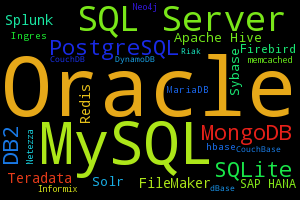
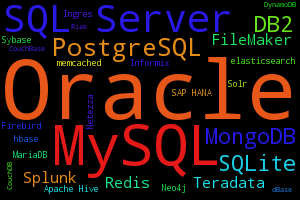
elasticsearch

diff --git a/DB/All.js b/DB/All.js
@@ -1,48 +1,48 @@
     // data
 // begin Top All
 TopPlusMinus = [1,2,9]
-PlusMinus = [-0.0399,0.0237333333333]
+PlusMinus = [-0.04215,0.0234666666667]
 // end Top All
 graphData = [
 ['Date', // begin section languages
-'Oracle', 'MySQL', 'SQL Server', 'PostgreSQL', 'DB2', 'Sybase', 'FileMaker', 'SQLite', 'MongoDB', 'Informix', 'Firebird', 'Teradata', 'dBase', 'Ingres', 'Solr', 'Redis', 'Apache Hive', 'memcached', 'hbase', 'Splunk', 'SAP HANA', 'CouchDB', 'Neo4j', 'CouchBase', 'MariaDB', 'Netezza', 'DynamoDB', 'Riak'
+'Oracle', 'MySQL', 'SQL Server', 'PostgreSQL', 'DB2', 'Sybase', 'FileMaker', 'SQLite', 'MongoDB', 'Informix', 'Firebird', 'Teradata', 'dBase', 'Ingres', 'Solr', 'Redis', 'Apache Hive', 'memcached', 'elasticsearch', 'hbase', 'Splunk', 'SAP HANA', 'CouchDB', 'Neo4j', 'CouchBase', 'MariaDB', 'Netezza', 'DynamoDB', 'Riak'
 // end section languages
 ],
 // begin section All
-[new Date(2004,1,1), 0.392,0.271,0.143,0.037,0.043,0.028,0.024,0.003,0.0,0.012,0.032,0.003,0.007,0.004,0.0,0.0,0.0,0.0,0.0,0.0,0.0,0.0,0.0,0.0,0.0,0.0,0.0,0.0],
-[new Date(2004,5,1), 0.391,0.275,0.148,0.035,0.045,0.028,0.024,0.004,0.0,0.013,0.023,0.003,0.007,0.004,0.0,0.0,0.0,0.0,0.0,0.0,0.0,0.0,0.0,0.0,0.0,0.0,0.0,0.0],
-[new Date(2004,9,1), 0.395,0.278,0.152,0.034,0.045,0.028,0.023,0.004,0.0,0.013,0.016,0.003,0.006,0.004,0.0,0.0,0.0,0.0,0.0,0.0,0.0,0.0,0.0,0.0,0.0,0.0,0.0,0.0],
-[new Date(2005,1,1), 0.395,0.285,0.151,0.033,0.044,0.027,0.021,0.005,0.0,0.012,0.015,0.003,0.005,0.004,0.0,0.0,0.0,0.0,0.0,0.0,0.0,0.0,0.0,0.0,0.0,0.0,0.0,0.0],
-[new Date(2005,5,1), 0.388,0.294,0.155,0.032,0.042,0.025,0.021,0.006,0.0,0.011,0.014,0.003,0.005,0.004,0.0,0.0,0.001,0.0,0.0,0.0,0.0,0.0,0.0,0.0,0.0,0.0,0.0,0.0],
-[new Date(2005,9,1), 0.391,0.29,0.16,0.032,0.042,0.025,0.02,0.006,0.0,0.011,0.012,0.003,0.004,0.003,0.0,0.0,0.001,0.0,0.0,0.0,0.0,0.0,0.0,0.0,0.0,0.0,0.0,0.0],
-[new Date(2006,1,1), 0.387,0.296,0.161,0.032,0.039,0.023,0.021,0.007,0.0,0.009,0.012,0.003,0.004,0.004,0.0,0.0,0.001,0.0,0.0,0.0,0.0,0.0,0.0,0.0,0.0,0.0,0.0,0.0],
-[new Date(2006,5,1), 0.384,0.297,0.168,0.029,0.038,0.022,0.019,0.008,0.0,0.009,0.012,0.003,0.004,0.005,0.0,0.001,0.001,0.001,0.0,0.001,0.0,0.0,0.0,0.0,0.0,0.0,0.0,0.0],
-[new Date(2006,9,1), 0.387,0.292,0.172,0.027,0.039,0.022,0.019,0.008,0.0,0.008,0.011,0.003,0.004,0.004,0.0,0.0,0.001,0.001,0.0,0.001,0.0,0.0,0.0,0.0,0.0,0.0,0.0,0.0],
-[new Date(2007,1,1), 0.389,0.296,0.17,0.026,0.038,0.021,0.019,0.009,0.0,0.008,0.012,0.003,0.003,0.004,0.0,0.001,0.001,0.001,0.0,0.001,0.0,0.0,0.0,0.0,0.0,0.0,0.0,0.0],
-[new Date(2007,5,1), 0.391,0.297,0.171,0.025,0.036,0.02,0.017,0.009,0.0,0.007,0.011,0.004,0.003,0.004,0.001,0.001,0.001,0.001,0.0,0.001,0.0,0.0,0.0,0.0,0.0,0.0,0.0,0.0],
-[new Date(2007,9,1), 0.394,0.289,0.176,0.025,0.037,0.02,0.016,0.009,0.0,0.007,0.011,0.004,0.003,0.003,0.001,0.001,0.001,0.001,0.0,0.001,0.0,0.0,0.0,0.0,0.0,0.0,0.0,0.0],
-[new Date(2008,1,1), 0.391,0.286,0.177,0.027,0.036,0.019,0.018,0.01,0.0,0.008,0.011,0.004,0.003,0.003,0.001,0.001,0.001,0.001,0.0,0.001,0.0,0.0,0.0,0.0,0.0,0.001,0.0,0.0],
-[new Date(2008,5,1), 0.392,0.281,0.181,0.028,0.035,0.018,0.017,0.011,0.0,0.009,0.01,0.005,0.003,0.003,0.001,0.001,0.001,0.002,0.001,0.001,0.0,0.0,0.0,0.0,0.0,0.001,0.0,0.0],
-[new Date(2008,9,1), 0.398,0.272,0.187,0.026,0.036,0.018,0.015,0.012,0.0,0.008,0.01,0.005,0.002,0.003,0.002,0.001,0.001,0.002,0.001,0.001,0.0,0.001,0.0,0.0,0.0,0.001,0.0,0.0],
-[new Date(2009,1,1), 0.395,0.273,0.188,0.024,0.035,0.017,0.016,0.013,0.0,0.008,0.01,0.005,0.002,0.003,0.002,0.001,0.001,0.002,0.001,0.001,0.0,0.001,0.0,0.0,0.0,0.001,0.0,0.0],
-[new Date(2009,5,1), 0.389,0.277,0.19,0.023,0.034,0.016,0.017,0.014,0.0,0.006,0.011,0.005,0.002,0.003,0.003,0.001,0.001,0.002,0.001,0.001,0.0,0.001,0.0,0.0,0.0,0.001,0.0,0.0],
-[new Date(2009,9,1), 0.396,0.273,0.192,0.023,0.034,0.015,0.015,0.014,0.0,0.005,0.01,0.005,0.002,0.003,0.003,0.001,0.001,0.002,0.001,0.002,0.0,0.002,0.0,0.0,0.0,0.001,0.0,0.0],
-[new Date(2010,1,1), 0.393,0.272,0.195,0.023,0.032,0.015,0.014,0.015,0.001,0.005,0.01,0.005,0.002,0.003,0.003,0.001,0.001,0.003,0.001,0.002,0.0,0.002,0.0,0.0,0.0,0.001,0.0,0.0],
-[new Date(2010,5,1), 0.39,0.268,0.197,0.023,0.031,0.015,0.015,0.016,0.002,0.005,0.009,0.006,0.002,0.003,0.004,0.002,0.002,0.003,0.001,0.002,0.0,0.002,0.0,0.0,0.0,0.001,0.0,0.0],
-[new Date(2010,9,1), 0.395,0.258,0.197,0.023,0.032,0.016,0.015,0.016,0.004,0.005,0.009,0.006,0.002,0.003,0.004,0.002,0.002,0.003,0.001,0.002,0.0,0.002,0.0,0.0,0.0,0.001,0.0,0.001],
-[new Date(2011,1,1), 0.397,0.26,0.191,0.023,0.03,0.014,0.015,0.018,0.005,0.005,0.009,0.007,0.002,0.003,0.005,0.003,0.002,0.003,0.002,0.002,0.0,0.002,0.0,0.0,0.001,0.002,0.0,0.001],
-[new Date(2011,5,1), 0.393,0.266,0.188,0.022,0.029,0.014,0.015,0.019,0.006,0.004,0.009,0.007,0.002,0.003,0.005,0.003,0.002,0.003,0.002,0.003,0.0,0.002,0.001,0.0,0.0,0.001,0.0,0.001],
-[new Date(2011,9,1), 0.395,0.259,0.19,0.022,0.028,0.014,0.014,0.02,0.008,0.004,0.008,0.007,0.002,0.003,0.006,0.004,0.002,0.003,0.002,0.003,0.001,0.002,0.001,0.0,0.0,0.002,0.0,0.001],
-[new Date(2012,1,1), 0.392,0.255,0.189,0.023,0.027,0.013,0.014,0.021,0.009,0.004,0.008,0.007,0.002,0.003,0.006,0.005,0.003,0.003,0.002,0.004,0.002,0.002,0.001,0.0,0.001,0.002,0.0,0.001],
-[new Date(2012,5,1), 0.385,0.252,0.189,0.024,0.027,0.012,0.015,0.023,0.011,0.004,0.008,0.008,0.002,0.003,0.007,0.006,0.003,0.004,0.003,0.005,0.002,0.002,0.001,0.001,0.001,0.002,0.001,0.001],
-[new Date(2012,9,1), 0.386,0.244,0.191,0.025,0.027,0.012,0.015,0.022,0.013,0.004,0.008,0.009,0.001,0.003,0.007,0.006,0.003,0.004,0.003,0.006,0.003,0.002,0.001,0.001,0.001,0.002,0.001,0.001],
-[new Date(2013,1,1), 0.388,0.242,0.19,0.026,0.026,0.011,0.014,0.023,0.014,0.004,0.008,0.009,0.001,0.003,0.007,0.006,0.004,0.003,0.003,0.006,0.003,0.002,0.001,0.001,0.001,0.002,0.001,0.001],
-[new Date(2013,5,1), 0.382,0.243,0.189,0.027,0.025,0.011,0.014,0.023,0.016,0.003,0.007,0.009,0.001,0.003,0.007,0.007,0.004,0.003,0.003,0.006,0.004,0.002,0.002,0.001,0.002,0.002,0.001,0.001],
-[new Date(2013,9,1), 0.379,0.24,0.189,0.027,0.025,0.01,0.013,0.023,0.018,0.003,0.007,0.009,0.001,0.003,0.008,0.008,0.005,0.004,0.003,0.008,0.005,0.002,0.002,0.001,0.003,0.002,0.001,0.001],
-[new Date(2014,1,1), 0.378,0.238,0.186,0.028,0.024,0.01,0.014,0.023,0.02,0.003,0.007,0.009,0.001,0.003,0.008,0.009,0.006,0.003,0.003,0.008,0.005,0.002,0.002,0.001,0.003,0.002,0.001,0.001],
-[new Date(2014,5,1), 0.37,0.241,0.186,0.028,0.023,0.009,0.014,0.024,0.023,0.003,0.007,0.009,0.001,0.003,0.008,0.01,0.007,0.003,0.004,0.009,0.005,0.002,0.002,0.002,0.003,0.002,0.001,0.002],
-[new Date(2014,9,1), 0.371,0.233,0.189,0.029,0.024,0.009,0.012,0.023,0.024,0.003,0.007,0.01,0.001,0.003,0.008,0.01,0.008,0.003,0.004,0.01,0.006,0.002,0.002,0.002,0.004,0.002,0.001,0.002],
-[new Date(2015,1,1), 0.372,0.233,0.185,0.029,0.023,0.008,0.012,0.023,0.025,0.003,0.007,0.01,0.001,0.003,0.008,0.011,0.01,0.003,0.003,0.01,0.006,0.002,0.002,0.002,0.004,0.002,0.001,0.002]
+[new Date(2004,1,1), 0.392,0.271,0.143,0.037,0.043,0.028,0.024,0.003,0.0,0.012,0.032,0.003,0.007,0.004,0.0,0.0,0.0,0.0,0.0,0.0,0.0,0.0,0.0,0.0,0.0,0.0,0.0,0.0,0.0],
+[new Date(2004,5,1), 0.391,0.275,0.148,0.035,0.045,0.028,0.024,0.004,0.0,0.013,0.023,0.003,0.007,0.004,0.0,0.0,0.0,0.0,0.0,0.0,0.0,0.0,0.0,0.0,0.0,0.0,0.0,0.0,0.0],
+[new Date(2004,9,1), 0.395,0.278,0.152,0.034,0.045,0.028,0.023,0.004,0.0,0.013,0.016,0.003,0.006,0.004,0.0,0.0,0.0,0.0,0.0,0.0,0.0,0.0,0.0,0.0,0.0,0.0,0.0,0.0,0.0],
+[new Date(2005,1,1), 0.395,0.285,0.151,0.033,0.044,0.027,0.021,0.005,0.0,0.012,0.015,0.003,0.005,0.004,0.0,0.0,0.0,0.0,0.0,0.0,0.0,0.0,0.0,0.0,0.0,0.0,0.0,0.0,0.0],
+[new Date(2005,5,1), 0.388,0.294,0.155,0.032,0.042,0.025,0.021,0.006,0.0,0.011,0.014,0.003,0.005,0.004,0.0,0.0,0.001,0.0,0.0,0.0,0.0,0.0,0.0,0.0,0.0,0.0,0.0,0.0,0.0],
+[new Date(2005,9,1), 0.391,0.29,0.16,0.032,0.042,0.025,0.02,0.006,0.0,0.011,0.012,0.003,0.004,0.003,0.0,0.0,0.001,0.0,0.0,0.0,0.0,0.0,0.0,0.0,0.0,0.0,0.0,0.0,0.0],
+[new Date(2006,1,1), 0.387,0.296,0.161,0.032,0.039,0.023,0.021,0.007,0.0,0.009,0.012,0.003,0.004,0.004,0.0,0.0,0.001,0.0,0.0,0.0,0.0,0.0,0.0,0.0,0.0,0.0,0.0,0.0,0.0],
+[new Date(2006,5,1), 0.384,0.297,0.168,0.029,0.038,0.022,0.019,0.008,0.0,0.009,0.012,0.003,0.004,0.005,0.0,0.001,0.001,0.001,0.0,0.0,0.001,0.0,0.0,0.0,0.0,0.0,0.0,0.0,0.0],
+[new Date(2006,9,1), 0.387,0.292,0.172,0.027,0.039,0.022,0.019,0.008,0.0,0.008,0.011,0.003,0.004,0.004,0.0,0.0,0.001,0.001,0.0,0.0,0.001,0.0,0.0,0.0,0.0,0.0,0.0,0.0,0.0],
+[new Date(2007,1,1), 0.389,0.296,0.17,0.026,0.038,0.021,0.019,0.009,0.0,0.008,0.012,0.003,0.003,0.004,0.0,0.001,0.001,0.001,0.0,0.0,0.001,0.0,0.0,0.0,0.0,0.0,0.0,0.0,0.0],
+[new Date(2007,5,1), 0.391,0.297,0.171,0.025,0.036,0.02,0.017,0.009,0.0,0.007,0.011,0.004,0.003,0.004,0.001,0.001,0.001,0.001,0.0,0.0,0.001,0.0,0.0,0.0,0.0,0.0,0.0,0.0,0.0],
+[new Date(2007,9,1), 0.394,0.289,0.176,0.025,0.037,0.02,0.016,0.009,0.0,0.007,0.011,0.004,0.003,0.003,0.001,0.001,0.001,0.001,0.0,0.0,0.001,0.0,0.0,0.0,0.0,0.0,0.0,0.0,0.0],
+[new Date(2008,1,1), 0.391,0.286,0.177,0.027,0.036,0.019,0.018,0.01,0.0,0.008,0.011,0.004,0.003,0.003,0.001,0.001,0.001,0.001,0.0,0.0,0.001,0.0,0.0,0.0,0.0,0.0,0.001,0.0,0.0],
+[new Date(2008,5,1), 0.392,0.281,0.181,0.028,0.035,0.018,0.017,0.011,0.0,0.009,0.01,0.005,0.003,0.003,0.001,0.001,0.001,0.002,0.0,0.001,0.001,0.0,0.0,0.0,0.0,0.0,0.001,0.0,0.0],
+[new Date(2008,9,1), 0.398,0.272,0.187,0.026,0.036,0.018,0.015,0.012,0.0,0.008,0.01,0.005,0.002,0.003,0.002,0.001,0.001,0.002,0.0,0.001,0.001,0.0,0.001,0.0,0.0,0.0,0.001,0.0,0.0],
+[new Date(2009,1,1), 0.395,0.273,0.188,0.024,0.035,0.017,0.016,0.013,0.0,0.008,0.01,0.005,0.002,0.003,0.002,0.001,0.001,0.002,0.0,0.001,0.001,0.0,0.001,0.0,0.0,0.0,0.001,0.0,0.0],
+[new Date(2009,5,1), 0.389,0.277,0.19,0.023,0.034,0.016,0.017,0.014,0.0,0.006,0.011,0.005,0.002,0.003,0.003,0.001,0.001,0.002,0.0,0.001,0.001,0.0,0.001,0.0,0.0,0.0,0.001,0.0,0.0],
+[new Date(2009,9,1), 0.396,0.273,0.192,0.023,0.034,0.015,0.015,0.014,0.0,0.005,0.01,0.005,0.002,0.003,0.003,0.001,0.001,0.002,0.0,0.001,0.002,0.0,0.002,0.0,0.0,0.0,0.001,0.0,0.0],
+[new Date(2010,1,1), 0.393,0.272,0.195,0.023,0.032,0.015,0.014,0.015,0.001,0.005,0.01,0.005,0.002,0.003,0.003,0.001,0.001,0.003,0.0,0.001,0.002,0.0,0.002,0.0,0.0,0.0,0.001,0.0,0.0],
+[new Date(2010,5,1), 0.39,0.268,0.197,0.023,0.031,0.015,0.015,0.016,0.002,0.005,0.009,0.006,0.002,0.003,0.004,0.002,0.002,0.003,0.0,0.001,0.002,0.0,0.002,0.0,0.0,0.0,0.001,0.0,0.0],
+[new Date(2010,9,1), 0.395,0.258,0.197,0.023,0.032,0.016,0.015,0.016,0.004,0.005,0.009,0.006,0.002,0.003,0.004,0.002,0.002,0.003,0.0,0.001,0.002,0.0,0.002,0.0,0.0,0.0,0.001,0.0,0.001],
+[new Date(2011,1,1), 0.397,0.26,0.191,0.023,0.03,0.014,0.015,0.018,0.005,0.005,0.009,0.007,0.002,0.003,0.005,0.003,0.002,0.003,0.0,0.002,0.002,0.0,0.002,0.0,0.0,0.001,0.002,0.0,0.001],
+[new Date(2011,5,1), 0.393,0.266,0.188,0.022,0.029,0.014,0.015,0.019,0.006,0.004,0.009,0.007,0.002,0.003,0.005,0.003,0.002,0.003,0.0,0.002,0.003,0.0,0.002,0.001,0.0,0.0,0.001,0.0,0.001],
+[new Date(2011,9,1), 0.395,0.259,0.189,0.022,0.028,0.014,0.014,0.02,0.008,0.004,0.008,0.007,0.002,0.003,0.006,0.004,0.002,0.003,0.0,0.002,0.003,0.001,0.002,0.001,0.0,0.0,0.002,0.0,0.001],
+[new Date(2012,1,1), 0.392,0.255,0.189,0.023,0.027,0.013,0.014,0.021,0.009,0.004,0.008,0.007,0.002,0.003,0.006,0.005,0.003,0.003,0.001,0.002,0.004,0.002,0.002,0.001,0.0,0.001,0.002,0.0,0.001],
+[new Date(2012,5,1), 0.384,0.252,0.189,0.024,0.027,0.012,0.015,0.023,0.011,0.004,0.008,0.008,0.002,0.003,0.007,0.006,0.003,0.003,0.001,0.003,0.005,0.002,0.002,0.001,0.001,0.001,0.002,0.001,0.001],
+[new Date(2012,9,1), 0.386,0.244,0.191,0.025,0.027,0.012,0.015,0.022,0.013,0.004,0.008,0.009,0.001,0.003,0.007,0.006,0.003,0.004,0.001,0.003,0.006,0.003,0.002,0.001,0.001,0.001,0.002,0.001,0.001],
+[new Date(2013,1,1), 0.388,0.241,0.19,0.026,0.026,0.011,0.014,0.023,0.014,0.004,0.008,0.009,0.001,0.003,0.007,0.006,0.004,0.003,0.002,0.003,0.006,0.003,0.002,0.001,0.001,0.001,0.002,0.001,0.001],
+[new Date(2013,5,1), 0.381,0.242,0.188,0.027,0.025,0.011,0.014,0.023,0.016,0.003,0.007,0.009,0.001,0.003,0.007,0.007,0.004,0.003,0.002,0.003,0.006,0.004,0.002,0.002,0.001,0.002,0.002,0.001,0.001],
+[new Date(2013,9,1), 0.378,0.239,0.188,0.027,0.025,0.01,0.013,0.023,0.018,0.003,0.007,0.009,0.001,0.003,0.008,0.008,0.005,0.003,0.004,0.003,0.008,0.005,0.002,0.002,0.001,0.003,0.002,0.001,0.001],
+[new Date(2014,1,1), 0.376,0.237,0.185,0.028,0.024,0.01,0.014,0.023,0.02,0.003,0.007,0.009,0.001,0.003,0.008,0.009,0.006,0.003,0.005,0.003,0.008,0.005,0.002,0.002,0.001,0.003,0.002,0.001,0.001],
+[new Date(2014,5,1), 0.368,0.239,0.184,0.028,0.023,0.009,0.014,0.024,0.022,0.003,0.007,0.009,0.001,0.003,0.008,0.01,0.007,0.003,0.007,0.004,0.009,0.005,0.002,0.002,0.002,0.003,0.002,0.001,0.002],
+[new Date(2014,9,1), 0.368,0.231,0.187,0.029,0.024,0.009,0.012,0.023,0.024,0.003,0.007,0.01,0.001,0.003,0.008,0.01,0.008,0.003,0.008,0.003,0.01,0.006,0.002,0.002,0.002,0.004,0.002,0.001,0.002],
+[new Date(2015,1,1), 0.369,0.23,0.183,0.029,0.023,0.008,0.012,0.023,0.024,0.003,0.007,0.01,0.001,0.003,0.008,0.011,0.01,0.003,0.01,0.003,0.01,0.006,0.002,0.002,0.002,0.004,0.002,0.001,0.002]
 // end section All
         ];
 

diff --git a/DB.html b/DB.html
@@ -134,34 +134,35 @@ country["FR"]="France"
 function refreshTop() {        
 cloud = "All.png"
 table = "<!-- begin section All-->\
-<td class=center>1</td><td class=center></td><td>Oracle</td><td class=right>37.25 %</td><td class=\"right optCol\">-0.2 %</td></tr>\
-<tr><td class=center>2</td><td class=center></td><td>MySQL</td><td class=right>23.25 %</td><td class=\"right optCol\">-1.3 %</td></tr>\
-<tr><td class=center>3</td><td class=center></td><td>SQL Server</td><td class=right>18.53 %</td><td class=\"right optCol\">+0.2 %</td></tr>\
-<tr><td class=center>4</td><td class=center></td><td>PostgreSQL</td><td class=right>2.93 %</td><td class=\"right optCol\">+0.2 %</td></tr>\
-<tr><td class=center>5</td><td class=center><image src=Up.png><image src=Up.png></td><td>MongoDB</td><td class=right>2.47 %</td><td class=\"right optCol\">+0.4 %</td></tr>\
-<tr><td class=center>6</td><td class=center></td><td>SQLite</td><td class=right>2.29 %</td><td class=\"right optCol\">-0.1 %</td></tr>\
-<tr><td class=center>7</td><td class=center><image src=Down.png><image src=Down.png></td><td>DB2</td><td class=right>2.29 %</td><td class=\"right optCol\">-0.0 %</td></tr>\
-<tr><td class=center>8</td><td class=center></td><td>FileMaker</td><td class=right>1.18 %</td><td class=\"right optCol\">-0.4 %</td></tr>\
-<tr><td class=center>9</td><td class=center><image src=Up.png><image src=Up.png></td><td>Redis</td><td class=right>1.08 %</td><td class=\"right optCol\">+0.2 %</td></tr>\
-<tr><td class=center>10</td><td class=center><image src=Up.png><image src=Up.png></td><td>Splunk</td><td class=right>1.03 %</td><td class=\"right optCol\">+0.3 %</td></tr>\
-<tr><td class=center>11</td><td class=center><image src=Down.png></td><td>Teradata</td><td class=right>1.03 %</td><td class=\"right optCol\">+0.2 %</td></tr>\
-<tr><td class=center>12</td><td class=center><image src=Up.png><image src=Up.png><image src=Up.png></td><td>Apache Hive</td><td class=right>0.97 %</td><td class=\"right optCol\">+0.3 %</td></tr>\
-<tr><td class=center>13</td><td class=center><image src=Down.png><image src=Down.png><image src=Down.png><image src=Down.png></td><td>Sybase</td><td class=right>0.84 %</td><td class=\"right optCol\">-0.1 %</td></tr>\
-<tr><td class=center>14</td><td class=center><image src=Down.png></td><td>Solr</td><td class=right>0.77 %</td><td class=\"right optCol\">-0.0 %</td></tr>\
-<tr><td class=center>15</td><td class=center><image src=Down.png></td><td>Firebird</td><td class=right>0.68 %</td><td class=\"right optCol\">-0.0 %</td></tr>\
-<tr><td class=center>16</td><td class=center></td><td>SAP HANA</td><td class=right>0.61 %</td><td class=\"right optCol\">+0.2 %</td></tr>\
-<tr><td class=center>17</td><td class=center><image src=Up.png><image src=Up.png></td><td>MariaDB</td><td class=right>0.41 %</td><td class=\"right optCol\">+0.1 %</td></tr>\
-<tr><td class=center>18</td><td class=center></td><td>hbase</td><td class=right>0.34 %</td><td class=\"right optCol\">-0.0 %</td></tr>\
-<tr><td class=center>19</td><td class=center><image src=Up.png></td><td>Ingres</td><td class=right>0.32 %</td><td class=\"right optCol\">-0.0 %</td></tr>\
-<tr><td class=center>20</td><td class=center><image src=Down.png><image src=Down.png><image src=Down.png></td><td>memcached</td><td class=right>0.3 %</td><td class=\"right optCol\">-0.1 %</td></tr>\
-<tr><td class=center>21</td><td class=center></td><td>Informix</td><td class=right>0.28 %</td><td class=\"right optCol\">-0.0 %</td></tr>\
-<tr><td class=center>22</td><td class=center></td><td>Neo4j</td><td class=right>0.23 %</td><td class=\"right optCol\">-0.0 %</td></tr>\
-<tr><td class=center>23</td><td class=center><image src=Up.png></td><td>Netezza</td><td class=right>0.19 %</td><td class=\"right optCol\">-0.0 %</td></tr>\
-<tr><td class=center>24</td><td class=center><image src=Up.png><image src=Up.png></td><td>CouchBase</td><td class=right>0.17 %</td><td class=\"right optCol\">-0.0 %</td></tr>\
-<tr><td class=center>25</td><td class=center><image src=Down.png><image src=Down.png></td><td>CouchDB</td><td class=right>0.17 %</td><td class=\"right optCol\">-0.0 %</td></tr>\
-<tr><td class=center>26</td><td class=center><image src=Down.png></td><td>Riak</td><td class=right>0.15 %</td><td class=\"right optCol\">-0.0 %</td></tr>\
-<tr><td class=center>27</td><td class=center><image src=Up.png></td><td>DynamoDB</td><td class=right>0.13 %</td><td class=\"right optCol\">-0.0 %</td></tr>\
-<tr><td class=center>28</td><td class=center><image src=Down.png></td><td>dBase</td><td class=right>0.11 %</td><td class=\"right optCol\">-0.0 %</td>\
+<td class=center>1</td><td class=center></td><td>Oracle</td><td class=right>36.89 %</td><td class=\"right optCol\">-0.4 %</td></tr>\
+<tr><td class=center>2</td><td class=center></td><td>MySQL</td><td class=right>23.03 %</td><td class=\"right optCol\">-1.4 %</td></tr>\
+<tr><td class=center>3</td><td class=center></td><td>SQL Server</td><td class=right>18.35 %</td><td class=\"right optCol\">+0.1 %</td></tr>\
+<tr><td class=center>4</td><td class=center></td><td>PostgreSQL</td><td class=right>2.9 %</td><td class=\"right optCol\">+0.2 %</td></tr>\
+<tr><td class=center>5</td><td class=center><image src=Up.png><image src=Up.png></td><td>MongoDB</td><td class=right>2.45 %</td><td class=\"right optCol\">+0.4 %</td></tr>\
+<tr><td class=center>6</td><td class=center></td><td>SQLite</td><td class=right>2.27 %</td><td class=\"right optCol\">-0.1 %</td></tr>\
+<tr><td class=center>7</td><td class=center><image src=Down.png><image src=Down.png></td><td>DB2</td><td class=right>2.27 %</td><td class=\"right optCol\">-0.0 %</td></tr>\
+<tr><td class=center>8</td><td class=center></td><td>FileMaker</td><td class=right>1.16 %</td><td class=\"right optCol\">-0.4 %</td></tr>\
+<tr><td class=center>9</td><td class=center><image src=Up.png><image src=Up.png></td><td>Redis</td><td class=right>1.07 %</td><td class=\"right optCol\">+0.2 %</td></tr>\
+<tr><td class=center>10</td><td class=center></td><td>Teradata</td><td class=right>1.02 %</td><td class=\"right optCol\">+0.2 %</td></tr>\
+<tr><td class=center>11</td><td class=center><image src=Up.png></td><td>Splunk</td><td class=right>1.02 %</td><td class=\"right optCol\">+0.2 %</td></tr>\
+<tr><td class=center>12</td><td class=center><image src=Up.png><image src=Up.png><image src=Up.png><image src=Up.png><image src=Up.png></td><td>elasticsearch</td><td class=right>0.96 %</td><td class=\"right optCol\">+0.5 %</td></tr>\
+<tr><td class=center>13</td><td class=center><image src=Up.png><image src=Up.png></td><td>Apache Hive</td><td class=right>0.96 %</td><td class=\"right optCol\">+0.3 %</td></tr>\
+<tr><td class=center>14</td><td class=center><image src=Down.png><image src=Down.png><image src=Down.png><image src=Down.png><image src=Down.png></td><td>Sybase</td><td class=right>0.83 %</td><td class=\"right optCol\">-0.1 %</td></tr>\
+<tr><td class=center>15</td><td class=center><image src=Down.png><image src=Down.png></td><td>Solr</td><td class=right>0.76 %</td><td class=\"right optCol\">-0.0 %</td></tr>\
+<tr><td class=center>16</td><td class=center><image src=Down.png><image src=Down.png></td><td>Firebird</td><td class=right>0.68 %</td><td class=\"right optCol\">-0.0 %</td></tr>\
+<tr><td class=center>17</td><td class=center><image src=Down.png></td><td>SAP HANA</td><td class=right>0.6 %</td><td class=\"right optCol\">+0.2 %</td></tr>\
+<tr><td class=center>18</td><td class=center><image src=Up.png><image src=Up.png></td><td>MariaDB</td><td class=right>0.41 %</td><td class=\"right optCol\">+0.1 %</td></tr>\
+<tr><td class=center>19</td><td class=center></td><td>hbase</td><td class=right>0.34 %</td><td class=\"right optCol\">-0.0 %</td></tr>\
+<tr><td class=center>20</td><td class=center><image src=Up.png><image src=Up.png></td><td>Ingres</td><td class=right>0.32 %</td><td class=\"right optCol\">-0.0 %</td></tr>\
+<tr><td class=center>21</td><td class=center><image src=Down.png><image src=Down.png><image src=Down.png></td><td>memcached</td><td class=right>0.29 %</td><td class=\"right optCol\">-0.1 %</td></tr>\
+<tr><td class=center>22</td><td class=center><image src=Down.png></td><td>Informix</td><td class=right>0.27 %</td><td class=\"right optCol\">-0.0 %</td></tr>\
+<tr><td class=center>23</td><td class=center></td><td>Neo4j</td><td class=right>0.23 %</td><td class=\"right optCol\">-0.0 %</td></tr>\
+<tr><td class=center>24</td><td class=center><image src=Up.png></td><td>Netezza</td><td class=right>0.19 %</td><td class=\"right optCol\">-0.0 %</td></tr>\
+<tr><td class=center>25</td><td class=center><image src=Up.png><image src=Up.png></td><td>CouchBase</td><td class=right>0.17 %</td><td class=\"right optCol\">-0.0 %</td></tr>\
+<tr><td class=center>26</td><td class=center><image src=Down.png><image src=Down.png></td><td>CouchDB</td><td class=right>0.17 %</td><td class=\"right optCol\">-0.0 %</td></tr>\
+<tr><td class=center>27</td><td class=center><image src=Down.png></td><td>Riak</td><td class=right>0.15 %</td><td class=\"right optCol\">-0.0 %</td></tr>\
+<tr><td class=center>28</td><td class=center><image src=Up.png></td><td>DynamoDB</td><td class=right>0.13 %</td><td class=\"right optCol\">-0.0 %</td></tr>\
+<tr><td class=center>29</td><td class=center><image src=Down.png></td><td>dBase</td><td class=right>0.11 %</td><td class=\"right optCol\">-0.0 %</td>\
 <!-- end section All-->\
 ";
 if (getUrlParameter('country') == "US") {
@@ -471,7 +472,7 @@ document.getElementById("cloud").src="DB/"+cloud;
 
 <script>
 $.ajaxSetup({async:false});
-if (getUrlParameter('country') == "") {$.getScript("DB/All.js?t=axbAll4304Allbxa")}
+if (getUrlParameter('country') == "") {$.getScript("DB/All.js?t=axbAll4970Allbxa")}
 if (getUrlParameter('country') == "US") {$.getScript("DB/US.js?t=axbUS8461USbxa")}
 if (getUrlParameter('country') == "DE") {$.getScript("DB/DE.js?t=axbDE2834DEbxa")}
 if (getUrlParameter('country') == "IN") {$.getScript("DB/IN.js?t=axbIN8165INbxa")}
